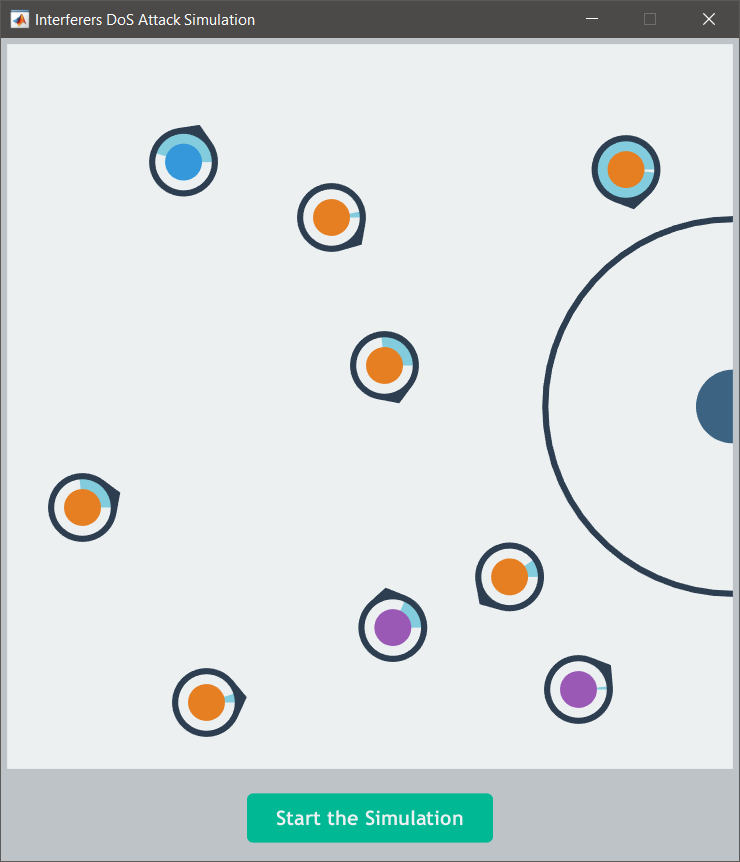
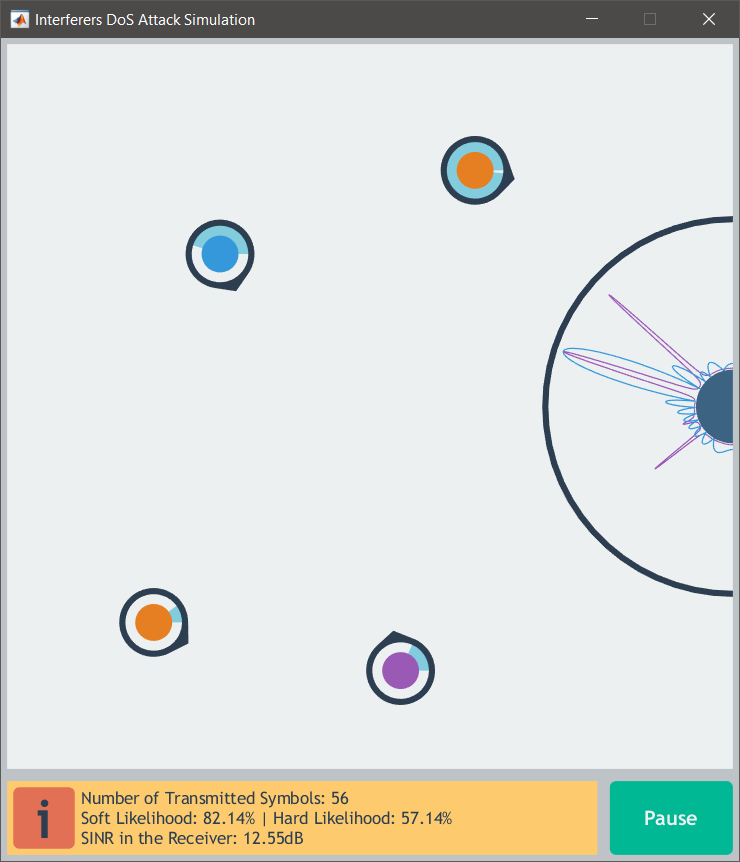
hints update

diff --git a/README.md b/README.md
@@ -8,14 +8,18 @@ As explained by <a href="https://en.wikipedia.org/wiki/Denial-of-service_attack"
 For the GUI, I use the built-in functionalities of MATLAB including figure creations and callback definitions. However, to implement a graphical transition effect, I created asynchronous timers that receive animation commands and deliver the result after specified duration. Please note that the command becomes effective after the end of its respective transition.
 
 # Execution
-To start the simulation, simply run the [GUI.m](GUI.m). With the help the implemented GUI, a figure will be generated. As shown in the left figure below, click on `Start` to continue. Then, as depicted in the right figure below, you can define simulation parameters, which are set to their default values. By clicking on `Initiate the System`, you can start the simulation. 
+To start the simulation, simply run the [GUI.m](GUI.m). With the help the implemented GUI, a figure will be generated. As shown in the left figure below, you can decided to see hints during the simulation. After that, you can click on `Start` to continue. Then, as depicted in the right figure below, you can define simulation parameters, which are set to their default values. By clicking on `Initiate the System`, you can enter the simulation system. 
 <p align="center">
 	<img src="images/01.PNG" width=25%>&#9;<img src="images/02.PNG" width=25%>
 </p>
-
-
-Just click on start
-
+After that, assuming you have chosen to get hints, you need to follow the instructions as shown in the left figure below. Finally, considering the middle figure below, you can start the simulation if you hit `Start the Simulation`. After this command, as illustrated by the right figure, a new figure will be created that allows you to access the logs during the simulation.
+<p align="center">
+	<img src="images/03.PNG" width=25%>&#9;<img src="images/04.PNG" width=25%>&#9;<img src="images/05.PNG" width=25%>
+</p>
+During the simulation, you are allowed to pause and make some modifications. The following figures describe how the process is done. 
+<p align="center">
+	<img src="images/06.PNG" width=25%>&#9;<img src="images/07.PNG" width=25%>
+</p>
 
 # References
 1. Rappaport, T. S., 1995. Wireless Communications: Principles and Practice. Prentice Hall, pp.69-70&139-141.
